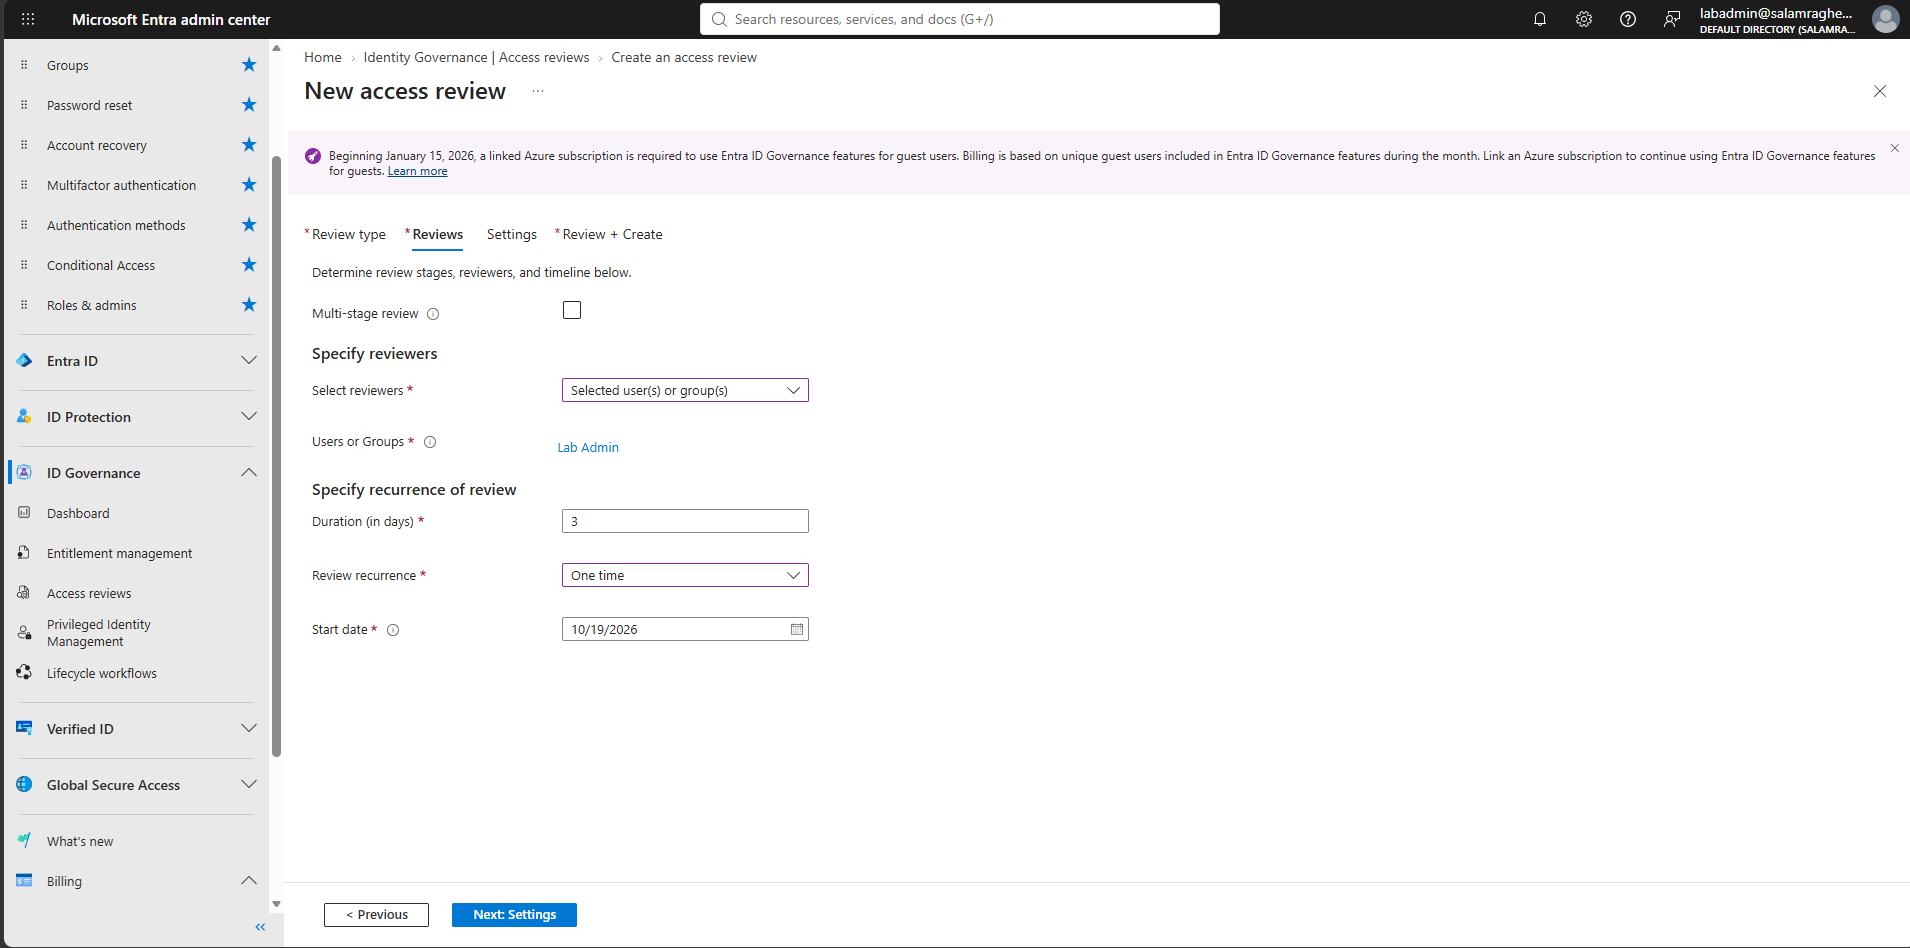
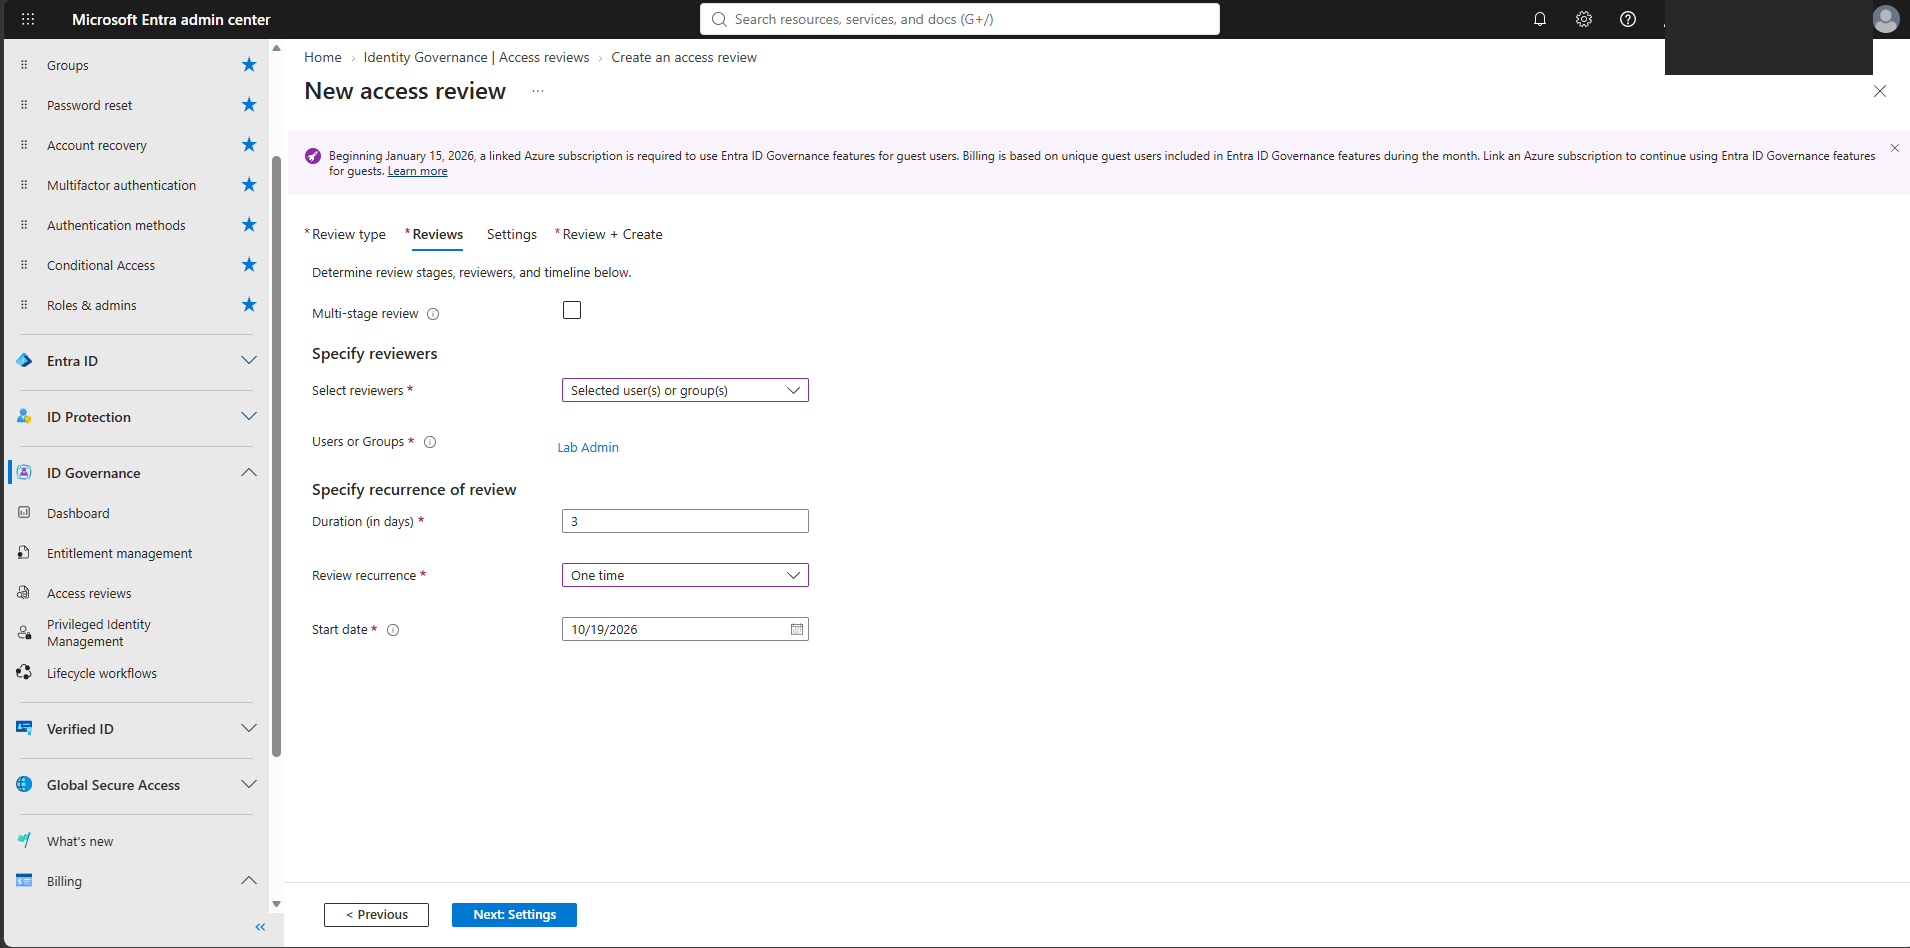
Apply Coach corrections; redact tenant name and token in screenshots

Changed region(s): [[0.8649, 0.0, 0.9885, 0.0918]]

diff --git a/README.md b/README.md
@@ -1,12 +1,12 @@
-# Entra ID Access Review (Identity Governance)
+# Entra ID Access Review (P2)
 
-Hands-on lab, October 2026.
+Hands-on lab, October 2026 (done Oct 19).
 
 ## What this is and why it matters
 
 An access review checks access people **already have** and removes what they no longer need. I ran a one-time review of the group **MFA-Test-Group** in Microsoft Entra ID P2. **Test User** was a member but hadn't signed in for 30+ days, so I denied continued access with a reason, and Entra removed them automatically. The group went from **1 member to 0**.
 
-This is how companies keep access clean for audits: someone accountable confirms each person still needs access, and the removal is applied and logged, not done by hand. (A *new* access request is a different flow: approval workflow, like dual control in CyberArk.)
+This is how companies keep access clean for audits: someone accountable confirms each person still needs access, and the removal is applied and logged, not done by hand. It rechecks access people already have. Requests for *new* access are a separate flow (approval / dual control, like in my CyberArk lab).
 
 ## Environment
 
@@ -61,7 +61,9 @@ Entra recommended **Deny** because Test User was inactive. I denied with the rea
 ![Deny with reason](screenshots/09-deny-with-reason.png)
 ![Reviewer completed](screenshots/10-reviewer-completed.png)
 
-### 9. Stop the review so results apply → Complete, 1 denied
+### 9. Stop the review → Complete, 1 denied
+
+I stopped the review once the decision was in. **Apply** is grayed out because auto-apply was on, so Entra applied the deny by itself.
 
 ![Review stopped](screenshots/11-review-stopped.png)
 ![Review complete: 1 denied](screenshots/12-review-complete-1-denied.png)
@@ -83,5 +85,5 @@ At first I described this as denying someone who *requests* access. That's not w
 
 ## Notes
 
-- Object IDs and the review ID in the browser URL were blacked out in screenshots 07, 09, 11 and 12.
+- Blacked out in screenshots: object IDs, review/tenant IDs in the browser URL, and the tenant name (account email and user names).
 - Lab tenant and test accounts only; no real user data.
